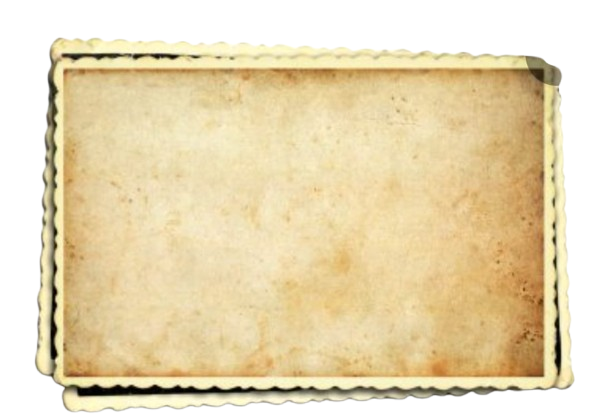
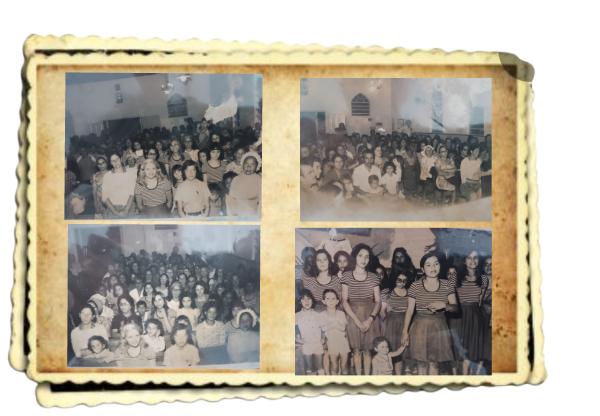
fix: ajuste pagina contribua

diff --git a/src/app/pages/contribua/contribua.component.scss b/src/app/pages/contribua/contribua.component.scss
@@ -1,4 +1,5 @@
 .ofertas {
+  background-color: #f3f3f3;
   .banner {
     background-image: url('./../../../assets/dizimo-banner.png');
     position: relative;
@@ -6,21 +7,28 @@
     background-repeat: no-repeat;
     background-size: contain;
     background-attachment: fixed;
-    height: calc(75vh);
-
+    height: calc(68vh);
+  }
+  .descricao {
+    p {
+      font-size: 1.5rem;
+      color: #000;
+      line-height: 28px;
+      margin: 30px 0 0;
+    }
   }
   .transparencia {
     display: flex;
-    flex-direction: column;
     justify-content: center;
-    padding: 30px;
+    justify-content: space-between;
+    padding: 30px 0;
     .pix {
-      background-color: rgba(24, 23, 22, 0.3);
+      width: 48%;
+      background: linear-gradient(90deg, rgb(248, 139, 70) 0%, rgb(228, 101, 66) 50%, rgb(210, 62, 62) 100%);
       display: flex;
       justify-content: center;
       align-items: center;
       flex-direction: column;
-      text-shadow: 1px 1px 0px #000, -1px 1px 0px #000, -1px -1px 0px #000, 1px -1px 0px #000;
       color: #fff;
       font-weight: bolder;
       line-height: 32px;
@@ -31,9 +39,27 @@
       h2 {
         font-size: 2rem;
       }
-      span {
-        font-size: 1.5rem;
+      .copiar-pix {
+        display: flex;
+        align-items: center;
+        color: #fff;
+        span {
+          font-size: 1.5rem;
+        }
+        button {
+          color: #fff;
+          &:hover {
+            color: #000;
+            i {
+              color: #000;
+            }
+          }
+          i {
+            margin-right: 5px;
+          }
+        }
       }
+
     }
   }
 }
@@ -44,11 +70,6 @@
       background-size: cover;
       background-attachment: scroll;
       height: 45vh;
-      .transparencia {
-        .pix {
-
-        }
-      }
     }
   }
 }
@@ -58,6 +79,18 @@
     .banner {
       background-position: top;
       height: calc(27vh);
+    }
+    .transparencia {
+      flex-direction: column;
+      width: 100%;
+      .pix {
+        width: 100%;
+        .copiar-pix {
+          span {
+            font-size: 1.4rem;
+          }
+        }
+      }
     }
   }
 }

diff --git a/src/app/pages/inicio/components/principais-programacoes/principais-programacoes.component.html b/src/app/pages/inicio/components/principais-programacoes/principais-programacoes.component.html
@@ -11,33 +11,49 @@
    >
     <div class="avisos__capa item1">
       <div class="avisos__capa__conteudo">
-        <h2>Começando com Deus</h2>
+        <h2>segunda</h2>
         <p>
           <i class="bi bi bi-check-all"></i>
-          Segunda às 8H
+          às 8h Começando com Deus
         </p>
-      </div>
-    </div>
-    <div class="avisos__capa item2">
-      <div class="avisos__capa__conteudo">
-        <h2>Famílias em oração</h2>
+        <span>Encontro presencial</span>
+        <br>
         <p>
-          <i class="bi bi-check-all"></i>
-          Segunda às 20H
+          <i class="bi bi bi-check-all"></i>
+          às 20h Famílias em Oração
         </p>
+        <span> Encontro Online
+          <i class="bi bi-youtube"></i>
+          <i class="bi bi-facebook"></i>
+        </span>
       </div>
     </div>
+
+
     <div class="avisos__capa item3">
       <div class="avisos__capa__conteudo">
-        <h2>Domingo</h2>
+        <h2>domingo</h2>
 
         <p>
           <i class="bi bi-check-all"></i>
-          Oração as 9h45
+          às 9h45 Oração
         </p>
         <p>
           <i class="bi bi-check-all"></i>
-          Celebração as 10h45
+          às 10h30 Culto de Celebração
+          <br>
+          No 2° domingo do mês celebramos a Santa Ceia
+        </p>
+      </div>
+    </div>
+
+    <div class="avisos__capa item2">
+      <div class="avisos__capa__conteudo">
+        <h2>sábado <br> Aviva Jovem </h2>
+        <span></span>
+        <p>
+          <i class="bi bi-check-all"></i>
+          às 19h30, no último sábado do mês
         </p>
       </div>
     </div>

diff --git a/src/app/pages/contribua/contribua.component.html b/src/app/pages/contribua/contribua.component.html
@@ -3,10 +3,16 @@
   </div>
 
   <div class="container">
+    <div class="descricao">
+      <p>É por meio dos dízimos e ofertas que podemos ajudar famílias com cestas básicas, aquisição de medicamentos, além do café da manhã aos domingos, reformas e melhorias da igreja</p>
+    </div>
     <div class="transparencia">
       <div class="pix">
         <h2>Chave Pix - CPNJ</h2>
-        <span>05.552.672.0001-80</span>
+        <div class="copiar-pix">
+          <span>05.552.672.0001-80</span>
+          <button class="btn" (click)="copiarTexto()"><i class="bi bi-copy"></i>copiar</button>
+        </div>
       </div>
         <div class="pix">
           <h2>Método Online</h2>

diff --git a/src/app/pages/inicio/components/principais-programacoes/principais-programacoes.component.scss b/src/app/pages/inicio/components/principais-programacoes/principais-programacoes.component.scss
@@ -37,7 +37,7 @@
   }
 
   .item3 {
-    background-image: url("./../../../../../assets/multi.png");
+    background-image: url("./../../../../../assets/domingo-culto.png");
   }
 
   &__capa {
@@ -69,10 +69,20 @@
         color: #fff;
         font-size: 3rem;
       }
+      span {
+        i {
+          color: #fff;
+          margin-right: 5px;
+        }
+        color: #fff;
+        font-size: 1.4rem;
+        line-height: 32px;
+      }
       p {
         margin-bottom: 2px;
         color: #fff;
         font-size: 1.4rem;
+        line-height: 27px;
       }
     }
   }
@@ -89,6 +99,7 @@
         }
         p {
           font-size: 1.5rem;
+
         }
       }
     }

diff --git a/src/app/shared/components/header/header.component.scss b/src/app/shared/components/header/header.component.scss
@@ -1,6 +1,6 @@
 header {
   padding: 10px 0;
-  background: linear-gradient(90deg, rgba(248,139,70,1) 0%, rgba(228,101,66,1) 35%, rgba(210,62,62,1) 100%);
+  background: linear-gradient(90deg, rgba(248,139,70,1) 0%, rgba(228,101,66,1) 50%, rgba(210,62,62,1) 100%);
   position: fixed;
   width: 100%;
   z-index: 9999;

diff --git a/src/app/pages/contribua/contribua.component.ts b/src/app/pages/contribua/contribua.component.ts
@@ -9,4 +9,7 @@ import { Component } from '@angular/core';
 })
 export class ContribuaComponent {
 
+  copiarTexto() {
+    navigator.clipboard.writeText('05.552.672.0001-80')
+  }
 }

diff --git a/src/app/pages/quem-somos/components/nossa-historia/nossa-historia.component.html b/src/app/pages/quem-somos/components/nossa-historia/nossa-historia.component.html
@@ -44,3 +44,8 @@
   nesses primeiros 60 anos:
 </p>
 </section>
+
+
+<section class="miniatura">
+  <img src="./../../../../../assets/miniatura-antiga.png" alt="">
+</section>

diff --git a/src/app/pages/quem-somos/components/nossa-historia/nossa-historia.component.scss b/src/app/pages/quem-somos/components/nossa-historia/nossa-historia.component.scss
@@ -7,3 +7,10 @@
     margin-bottom: 32px;
   }
 }
+
+.miniatura {
+  img {
+    width: 100%;
+    margin-bottom: 30px;
+  }
+}
